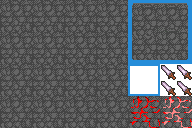
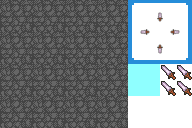
Update items

Changed region(s): [[0.6875, 0.0, 1.0, 0.4688], [0.6562, 0.5, 1.0, 1.0]]

diff --git a/Sample/Source/NodeFunctions/Player.py b/Sample/Source/NodeFunctions/Player.py
@@ -46,7 +46,7 @@ def GetPlayerFrontPosition() -> Optional[Vector2i]:
 
 @Meta(DisplayName='LOC("ADD_ITEM")', DisplayDesc='LOC("ADD_ITEM_DESC")')
 @ExecSplit(default=(None,))
-def AddItem(itemID: str, count: int = 1) -> None:
+def AddItem(itemID: str, count: int) -> None:
     r"""\brief Add item(s) to the player's inventory.
 
     - \param itemID Item identifier.
@@ -59,7 +59,7 @@ def AddItem(itemID: str, count: int = 1) -> None:
 
 @Meta(DisplayName='LOC("REMOVE_ITEM")', DisplayDesc='LOC("REMOVE_ITEM_DESC")')
 @ExecSplit(Success=(0,), Failed=(1,))
-def RemoveItem(itemID: str, count: int = 1) -> int:
+def RemoveItem(itemID: str, count: int) -> int:
     r"""\brief Remove item(s) from the player's inventory.
 
     - \param itemID Item identifier.
@@ -111,7 +111,7 @@ def AddEquip(equipID: str, count: int = 1) -> None:
 
 @Meta(DisplayName='LOC("REMOVE_EQUIP")', DisplayDesc='LOC("REMOVE_EQUIP_DESC")')
 @ExecSplit(Success=(0,), Failed=(1,))
-def RemoveEquip(equipID: str, count: int = 1) -> int:
+def RemoveEquip(equipID: str, count: int) -> int:
     r"""\brief Remove equip(s) from the player's equipment bag.
 
     - \param equipID Equip identifier.

diff --git a/Sample/Source/NodeFunctions/State.py b/Sample/Source/NodeFunctions/State.py
@@ -28,7 +28,7 @@ def GetStateOwner() -> Optional[object]:
 
 @Meta(DisplayName='LOC("GET_EVENT_ARG")', DisplayDesc='LOC("GET_EVENT_ARG_DESC")')
 @ReturnType(value=object)
-def GetEventArg(name: str, default: Any = None) -> Any:
+def GetEventArg(name: str, default: Any) -> Any:
     r"""\brief Get a keyword argument injected into the current blueprint event.
 
     Convenience wrapper that reads `__<name>__` from the local graph context.
@@ -54,7 +54,7 @@ def GetDamageContext() -> Any:
 
 @Meta(DisplayName='LOC("GET_CTX_FIELD")', DisplayDesc='LOC("GET_CTX_FIELD_DESC")')
 @ReturnType(value=object)
-def GetCtxField(context: Any, name: str, default: Any = None) -> Any:
+def GetCtxField(context: Any, name: str, default: Any) -> Any:
     r"""\brief Read a field from a `DamageContext` (e.g. atk, deF, damagePerRound, rounds, totalDamage).
 
     Falls back to `context.extra[name]` when the attribute does not exist.
@@ -115,7 +115,7 @@ def AddCtxField(context: Any, name: str, delta: Any) -> None:
 
 @Meta(DisplayName='LOC("GET_BATTLER_ATTR")', DisplayDesc='LOC("GET_BATTLER_ATTR_DESC")')
 @ReturnType(value=object)
-def GetBattlerAttr(battler: Any, attrName: str, default: Any = None) -> Any:
+def GetBattlerAttr(battler: Any, attrName: str, default: Any) -> Any:
     r"""\brief Read a named attribute from any battler (e.g. HP, MAXHP, ATK, DEF).
 
     - \param battler The target battler.

diff --git a/Widgets/EditorPanel.py b/Widgets/EditorPanel.py
@@ -735,6 +735,9 @@ class EditorPanel(QtWidgets.QWidget):
         autoTiles = getattr(layer, "autoTiles", None)
         changed = False
         if autoKey is not None:
+            if layer.tiles[y][x] is not None:
+                layer.tiles[y][x] = None
+                changed = True
             if isinstance(autoTiles, list):
                 if autoTiles[y][x] != autoKey:
                     autoTiles[y][x] = autoKey
@@ -742,6 +745,9 @@ class EditorPanel(QtWidgets.QWidget):
         elif tileNum is not None:
             if layer.tiles[y][x] != tileNum:
                 layer.tiles[y][x] = tileNum
+                changed = True
+            if isinstance(autoTiles, list) and autoTiles[y][x] is not None:
+                autoTiles[y][x] = None
                 changed = True
         else:
             if layer.tiles[y][x] is not None:

diff --git a/Sample/Source/NodeFunctions/Save.py b/Sample/Source/NodeFunctions/Save.py
@@ -37,7 +37,7 @@ def LoadGame(filePath: str) -> int:
 
 @Meta(DisplayName='LOC("GET_SAVE_PATH")', DisplayDesc='LOC("GET_SAVE_PATH_DESC")')
 @ReturnType(path=str)
-def GetSavePath(slot: int = 0, ext: str = "json") -> str:
+def GetSavePath(slot: int, ext: str) -> str:
     r"""\brief Get the platform-specific save file path for a given slot.
 
     - \param slot Save slot number (0 = default).